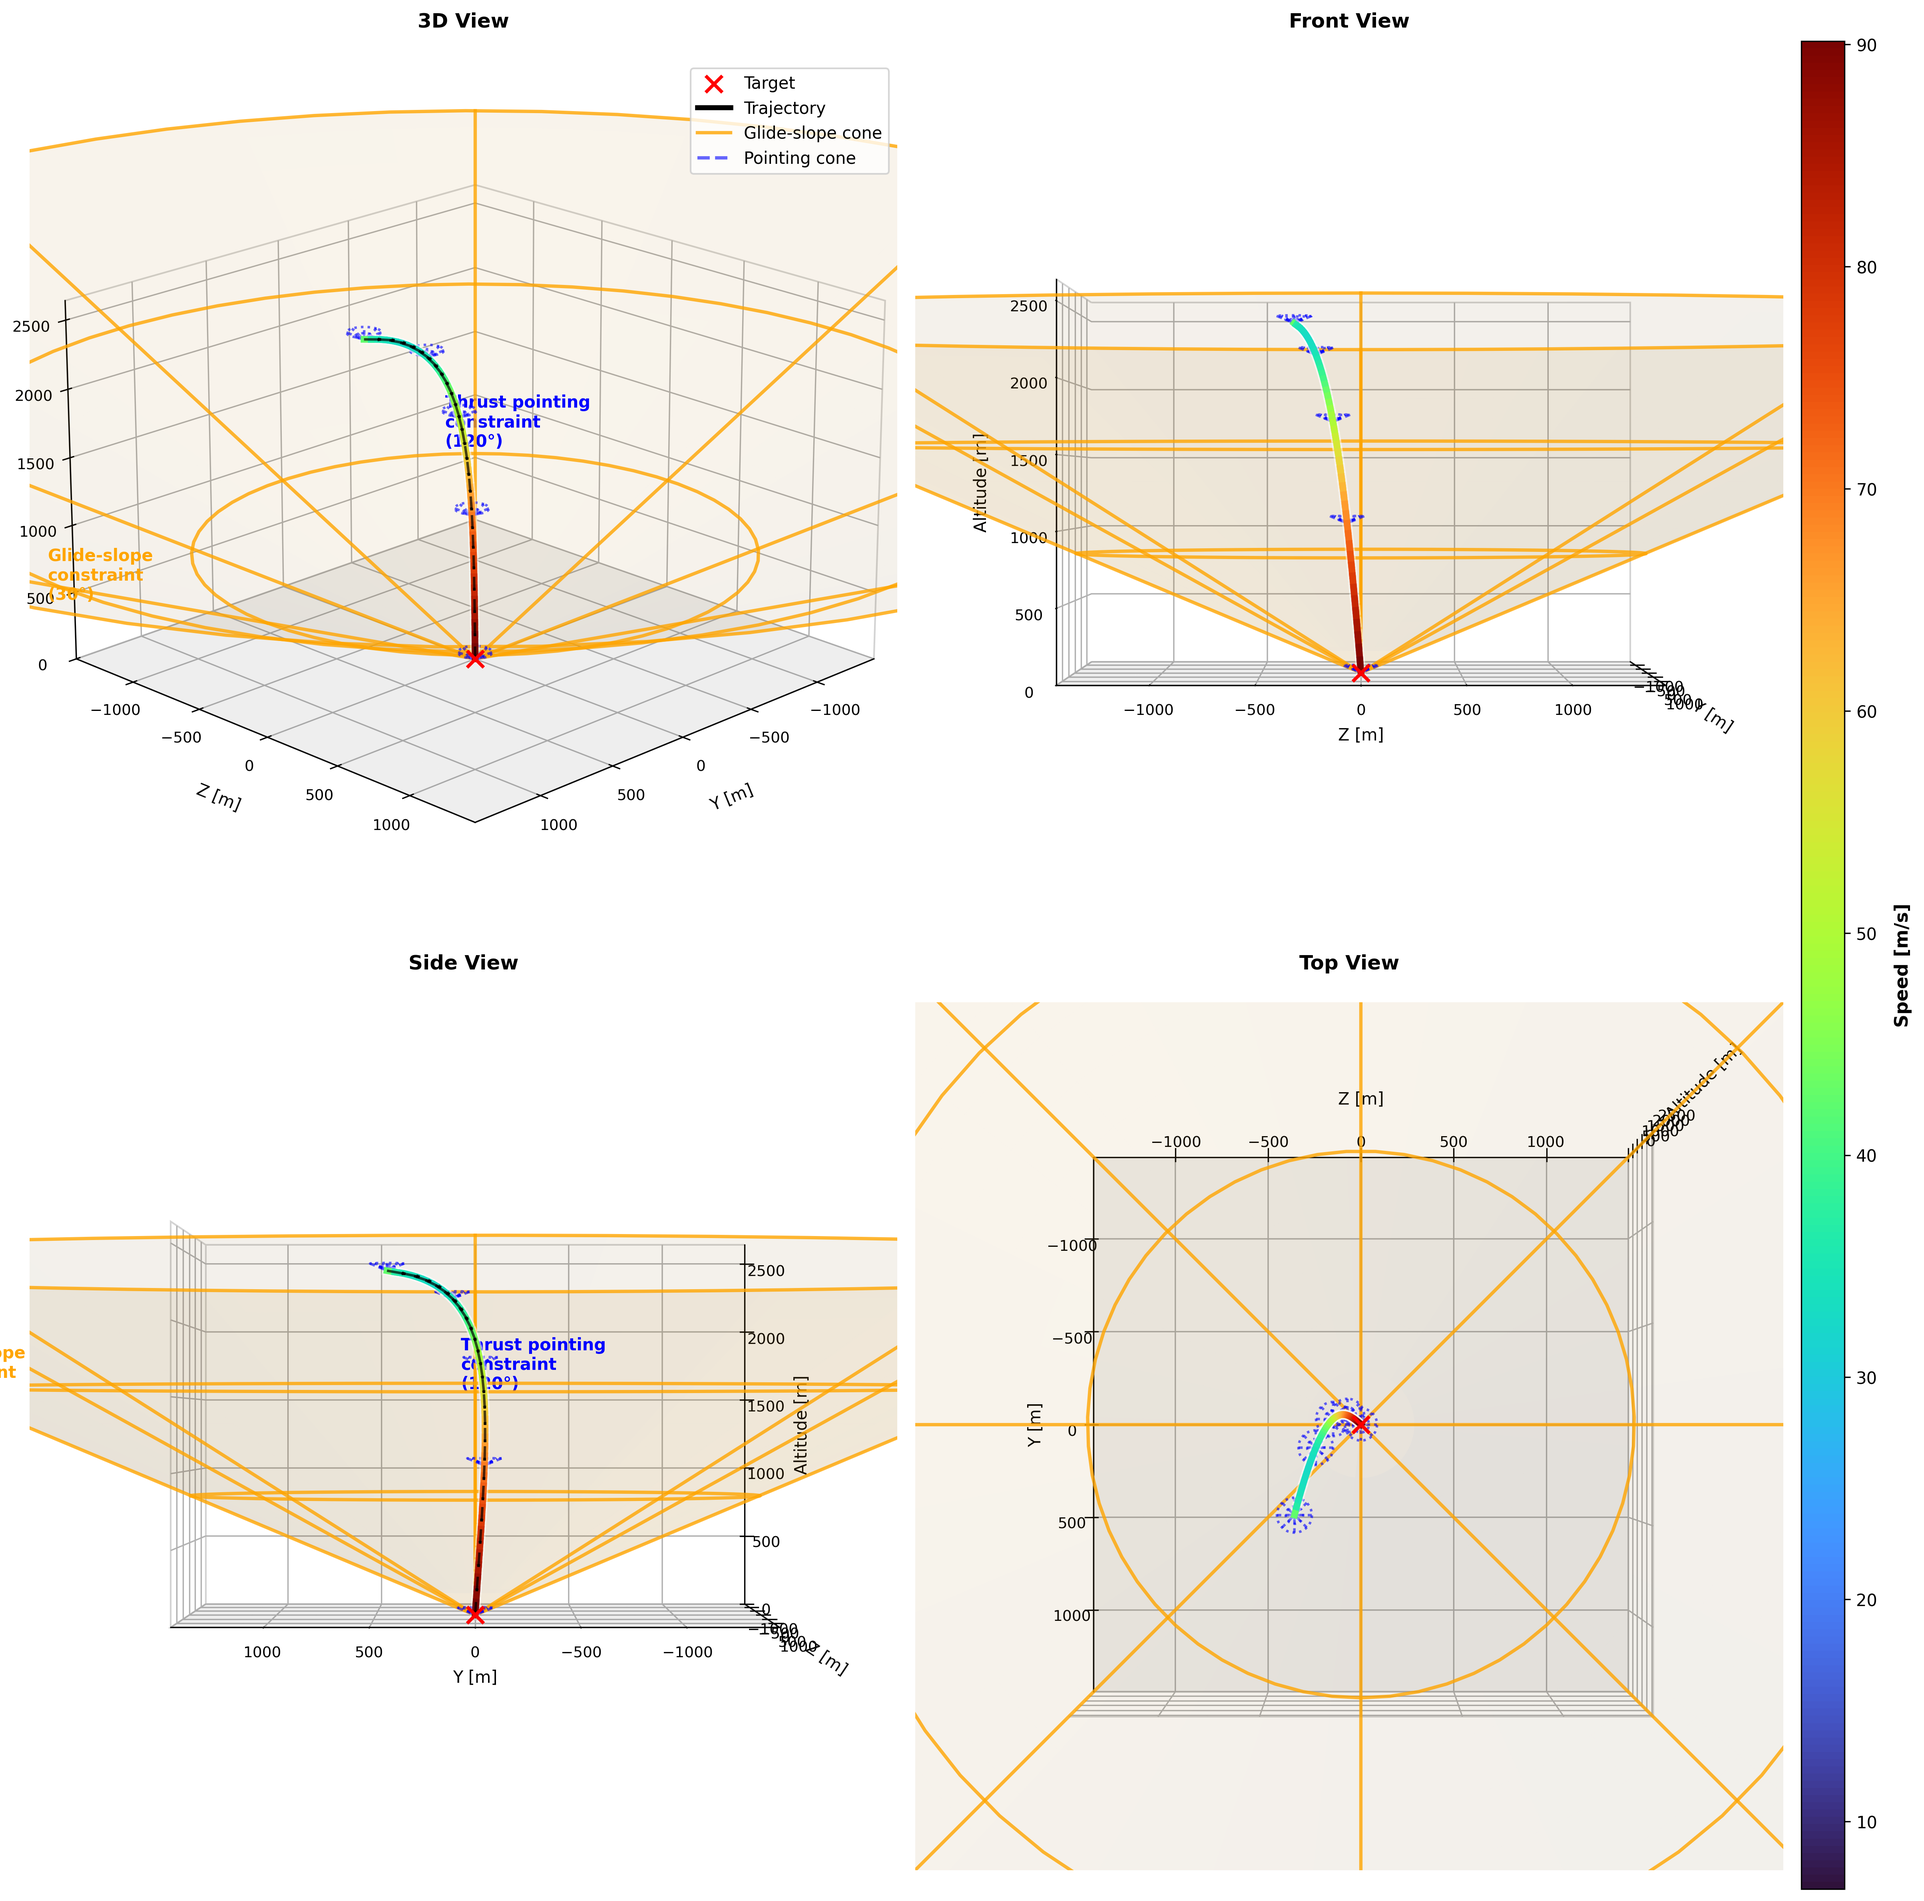
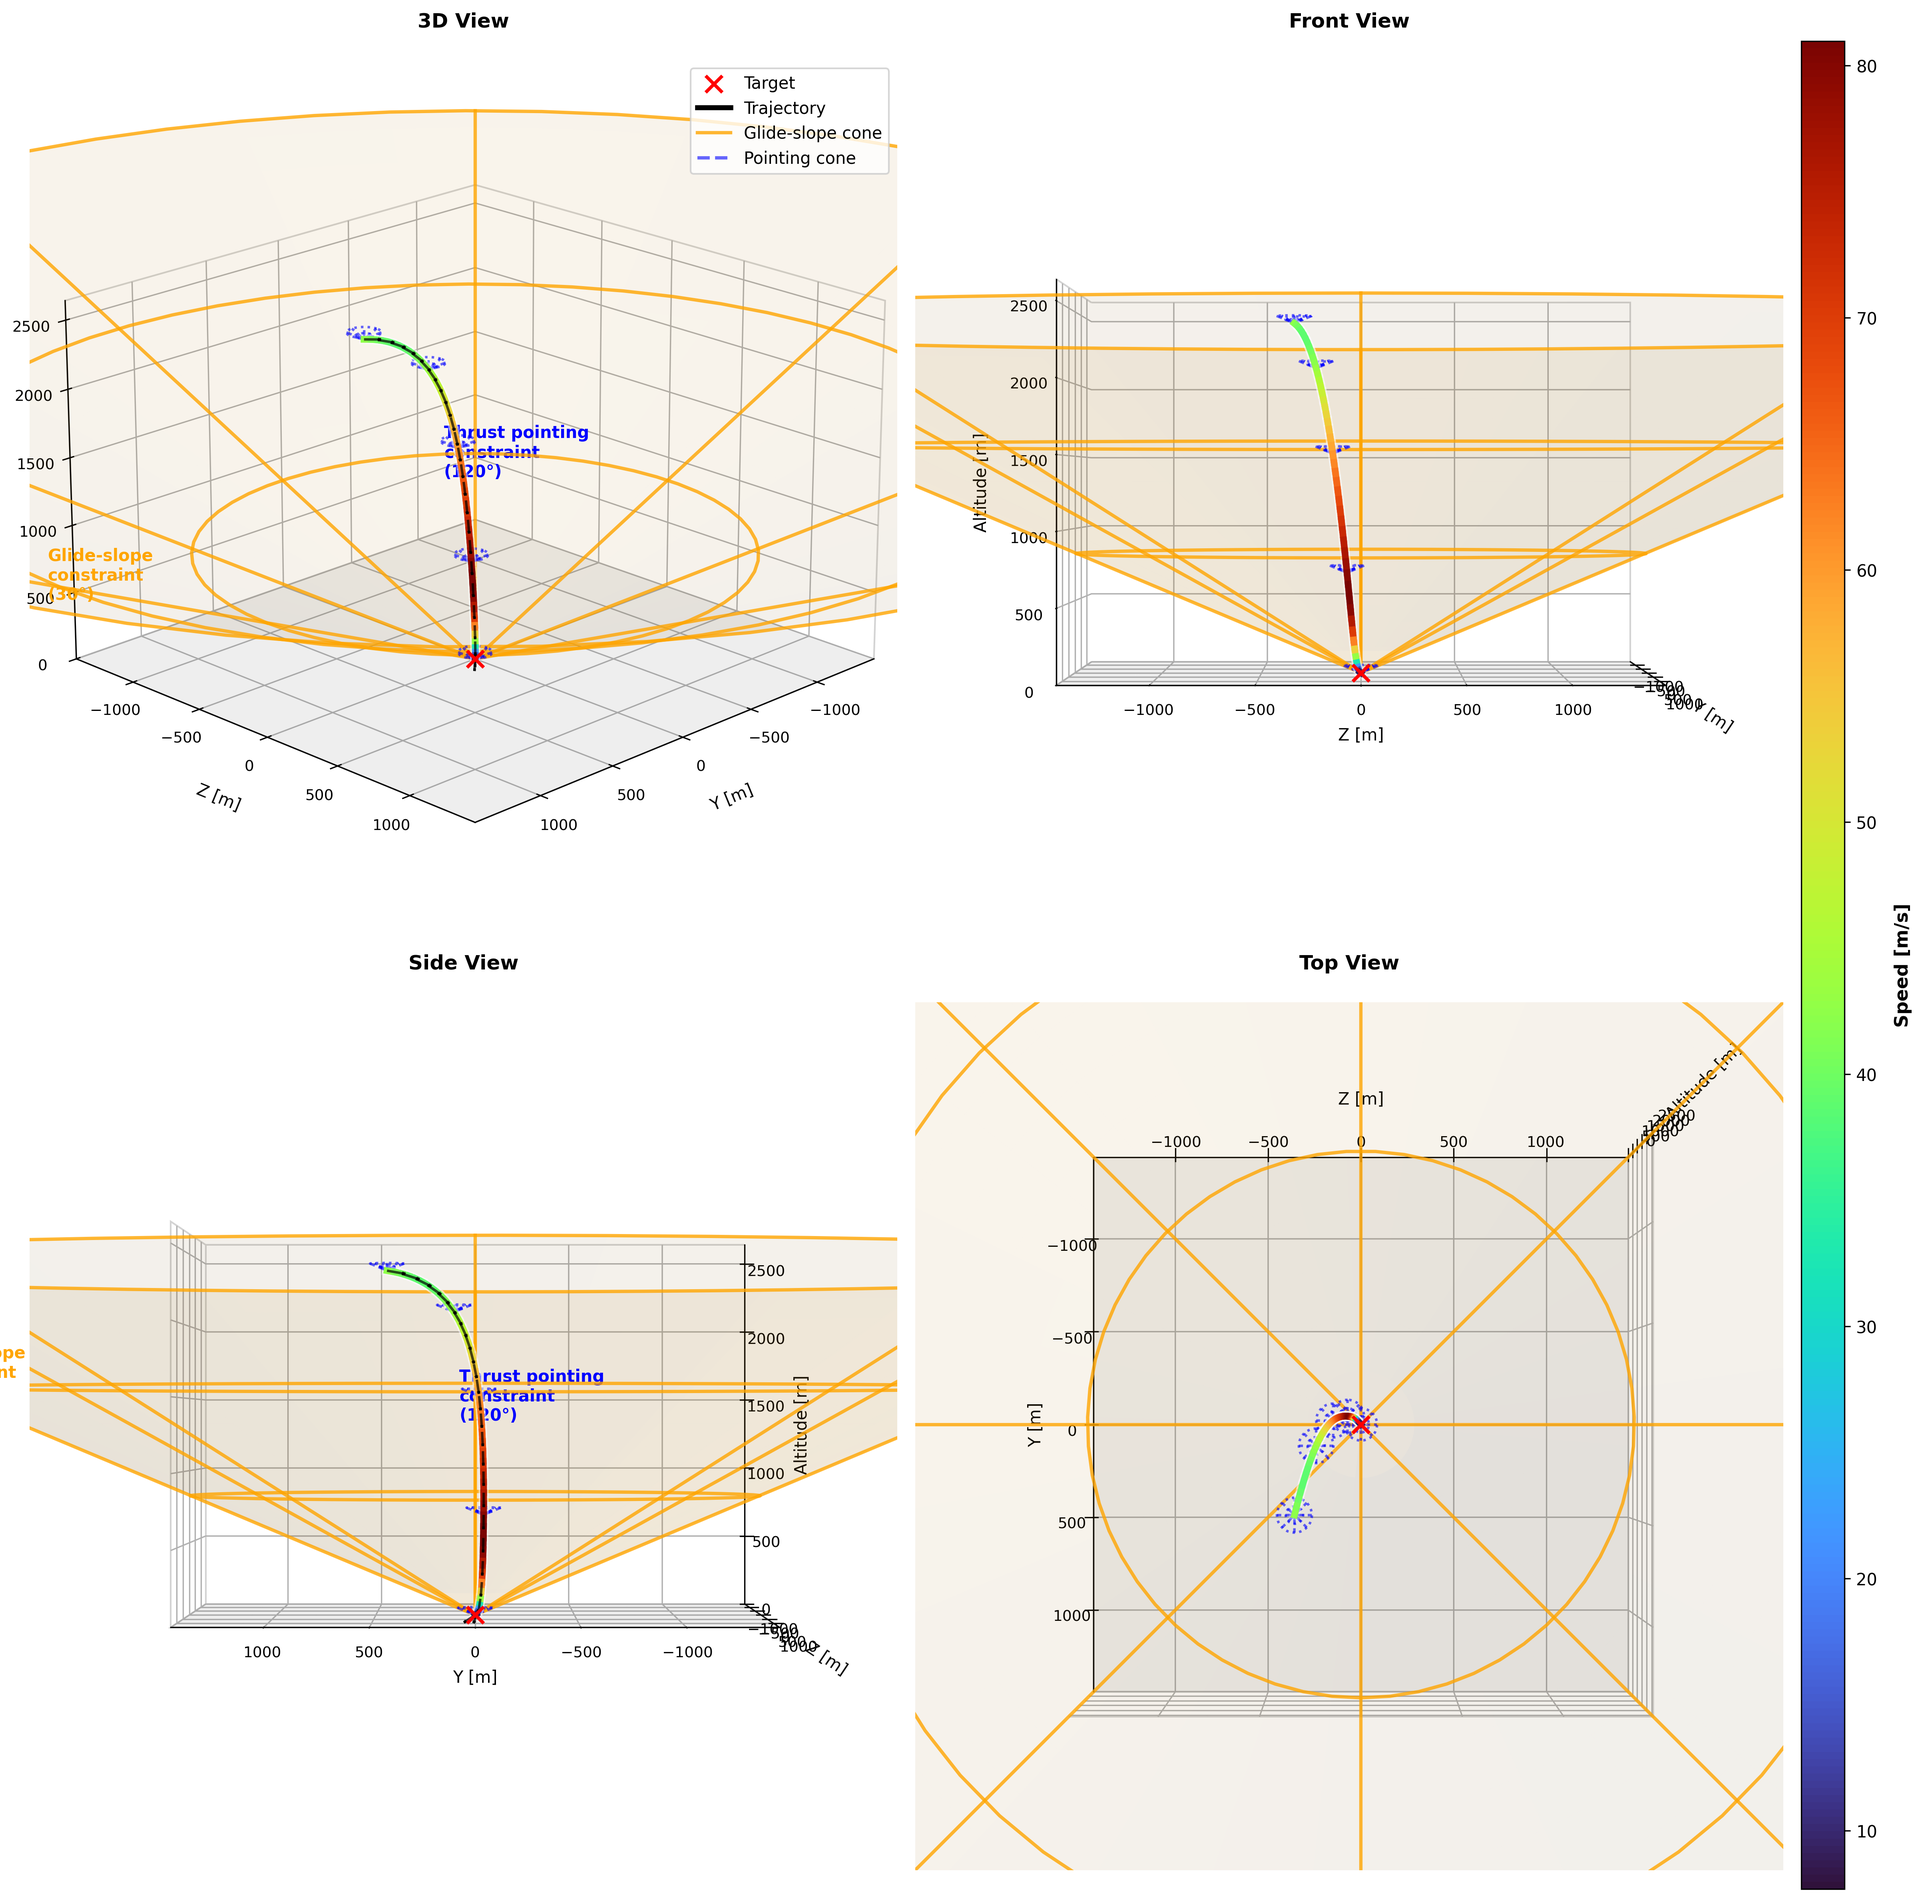
smooth out thrust profile/tune param

diff --git a/src/solver.py b/src/solver.py
@@ -1,5 +1,7 @@
 """
 Solver for the powered descent guidance optimization problem.
+
+Author: Niko Natsoulas
 """
 
 from typing import Tuple
@@ -43,12 +45,21 @@ class PoweredDescentGuidance:
             constraints.append(
                 z[:,t+1] == z[:,t] - p.alpha * gamma[:,t]
             )
+            
+            # Add thrust rate constraint
+            if t < p.N-2:
+                constraints.append(
+                    cp.norm(u[:,t+1] - u[:,t], axis=0) <= p.max_thrust_change_rate  # Max thrust change rate
+                )
         
         # Thrust constraints
         constraints.extend([
             cp.norm(u, axis=0) <= gamma[0,:],  # Upper bound
             p.e1 @ u >= gamma[0,:] * p.theta_cos  # Pointing constraint
         ])
+        
+        # Initial thrust should be small to ensure smooth start
+        constraints.append(cp.norm(u[:,0]) <= p.initial_thrust_fraction * p.Tmax)
         
         # Slack variable bounds
         z0 = np.array([np.log(p.m0 - p.alpha * p.rho2 * p.dt * i) 
@@ -75,11 +86,12 @@ class PoweredDescentGuidance:
         u = cp.Variable((3, p.N))     # Thrust
         gamma = cp.Variable((1, p.N)) # Slack variable
         
-        # Objective: minimize landing error and final velocity
+        # Objective: minimize landing error, final velocity, and thrust variation
         objective = cp.Minimize(
-            5.0 * cp.norm(p.E @ x[:3,p.N-1] - p.q) +
-            0.1 * cp.sum(gamma) +
-            1.0 * cp.norm(x[3:,p.N-1])
+            5.0 * cp.norm(p.E @ x[:3,p.N-1] - p.q) +  # Landing error
+            0.5 * cp.sum(gamma) +                      # Fuel usage (reduced weight)
+            1.0 * cp.norm(x[3:,p.N-1]) +              # Final velocity
+            0.1 * cp.sum_squares(cp.diff(gamma[0,:]))  # Thrust smoothness
         )
         
         # Constraints
@@ -113,8 +125,11 @@ class PoweredDescentGuidance:
         u = cp.Variable((3, p.N))     # Thrust
         gamma = cp.Variable((1, p.N)) # Slack variable
         
-        # Objective: minimize fuel consumption
-        objective = cp.Minimize(cp.sum(gamma) * p.dt)
+        # Objective: minimize fuel consumption and thrust variation
+        objective = cp.Minimize(
+            cp.sum(gamma) * p.dt +                    # Fuel consumption
+            0.05 * cp.sum_squares(cp.diff(gamma[0,:])) # Thrust smoothness
+        )
         
         # Constraints
         constraints = self._set_common_constraints(x, z, u, gamma)

diff --git a/src/system_parameters.py b/src/system_parameters.py
@@ -1,5 +1,7 @@
 """
 System parameters for the powered descent guidance problem.
+
+Author: Niko Natsoulas
 """
 
 from dataclasses import dataclass, field
@@ -23,6 +25,8 @@ class SystemParameters:
     Tmax: float = 24000.0  # Maximum thrust [N]
     rho1: float = 0.2 * 24000.0  # Lower bound thrust [N]
     rho2: float = 0.8 * 24000.0  # Upper bound thrust [N]
+    max_thrust_change_rate: float = 2.0  # Maximum rate of thrust change [N/s]
+    initial_thrust_fraction: float = 0.2  # Initial thrust as fraction of max thrust
     
     # Simulation parameters
     tf: float = 50.0  # End time [s]

diff --git a/main.py b/main.py
@@ -2,6 +2,8 @@
 Main script for the powered descent guidance problem.
 Sets up the problem parameters and solves both minimum landing error
 and minimum fuel problems.
+
+Author: Niko Natsoulas
 """
 
 import numpy as np

diff --git a/src/__init__.py b/src/__init__.py
@@ -1,5 +1,7 @@
 """
-Source package for the powered descent guidance problem.
+Powered descent guidance package initialization.
+
+Author: Niko Natsoulas
 """
 
 from .system_parameters import SystemParameters

diff --git a/src/plotting.py b/src/plotting.py
@@ -1,5 +1,7 @@
 """
 Plotting functions for the powered descent guidance problem.
+
+Author: Niko Natsoulas
 """
 
 from pathlib import Path
